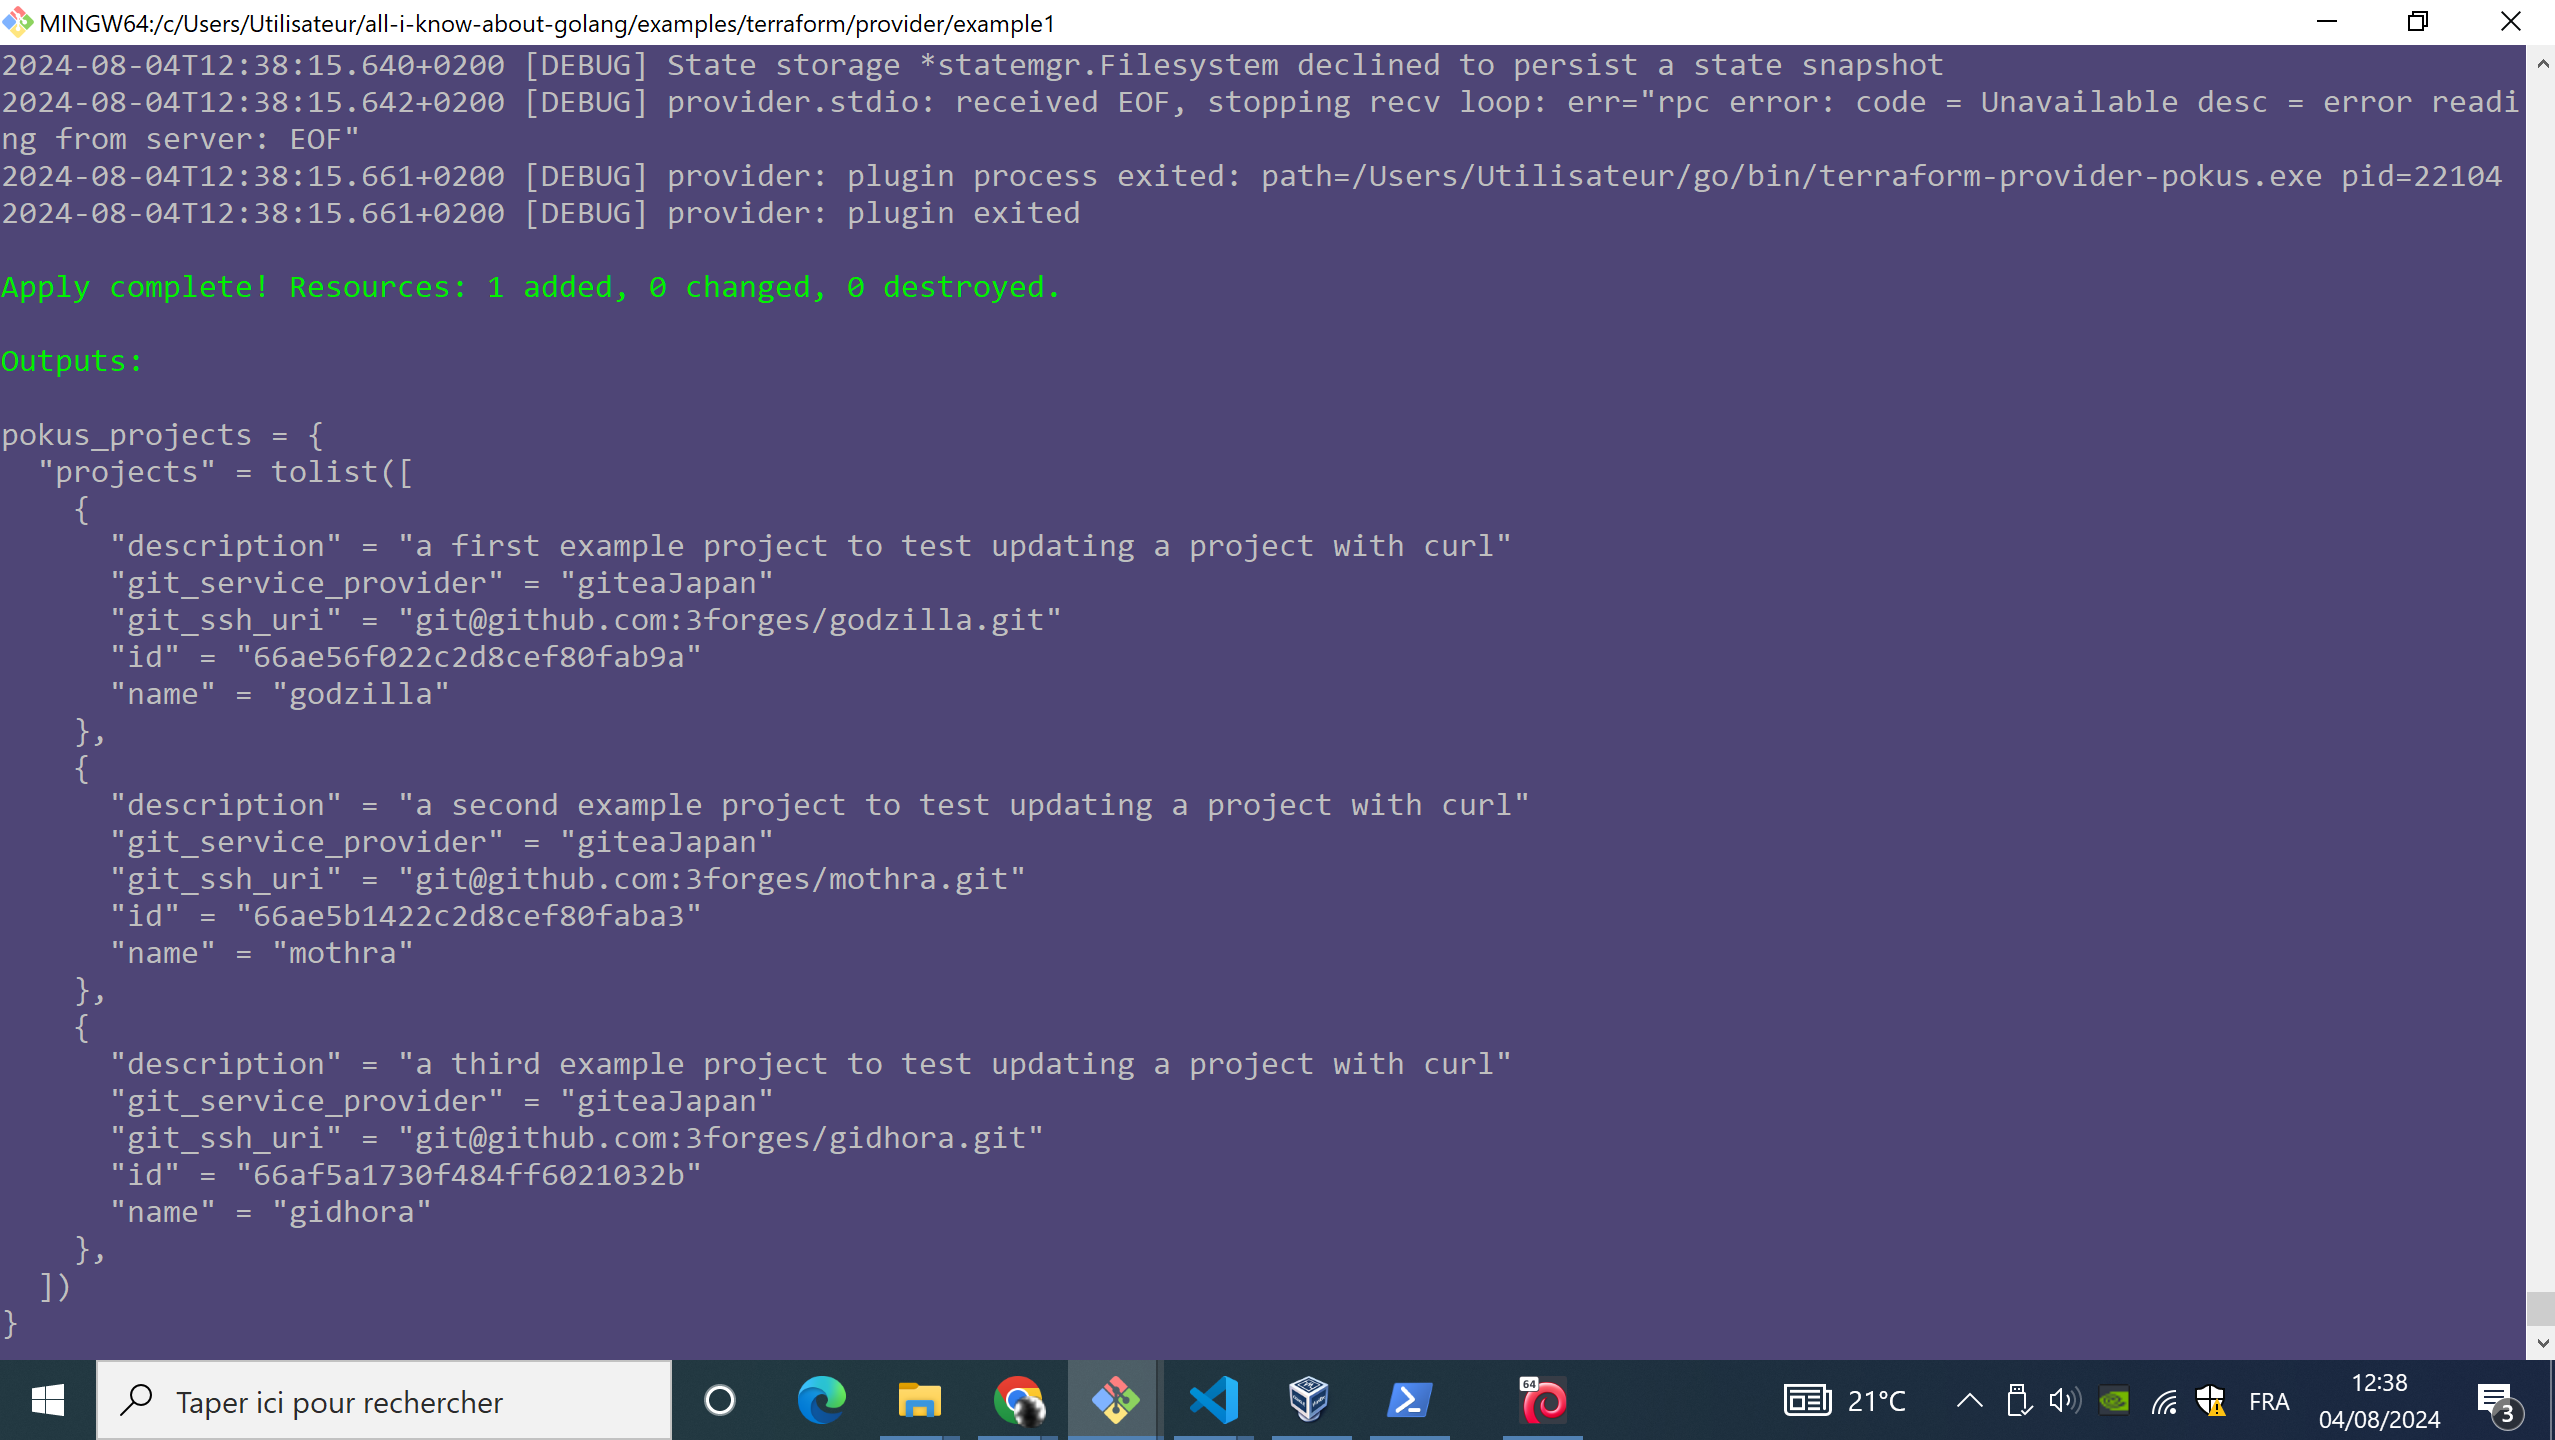
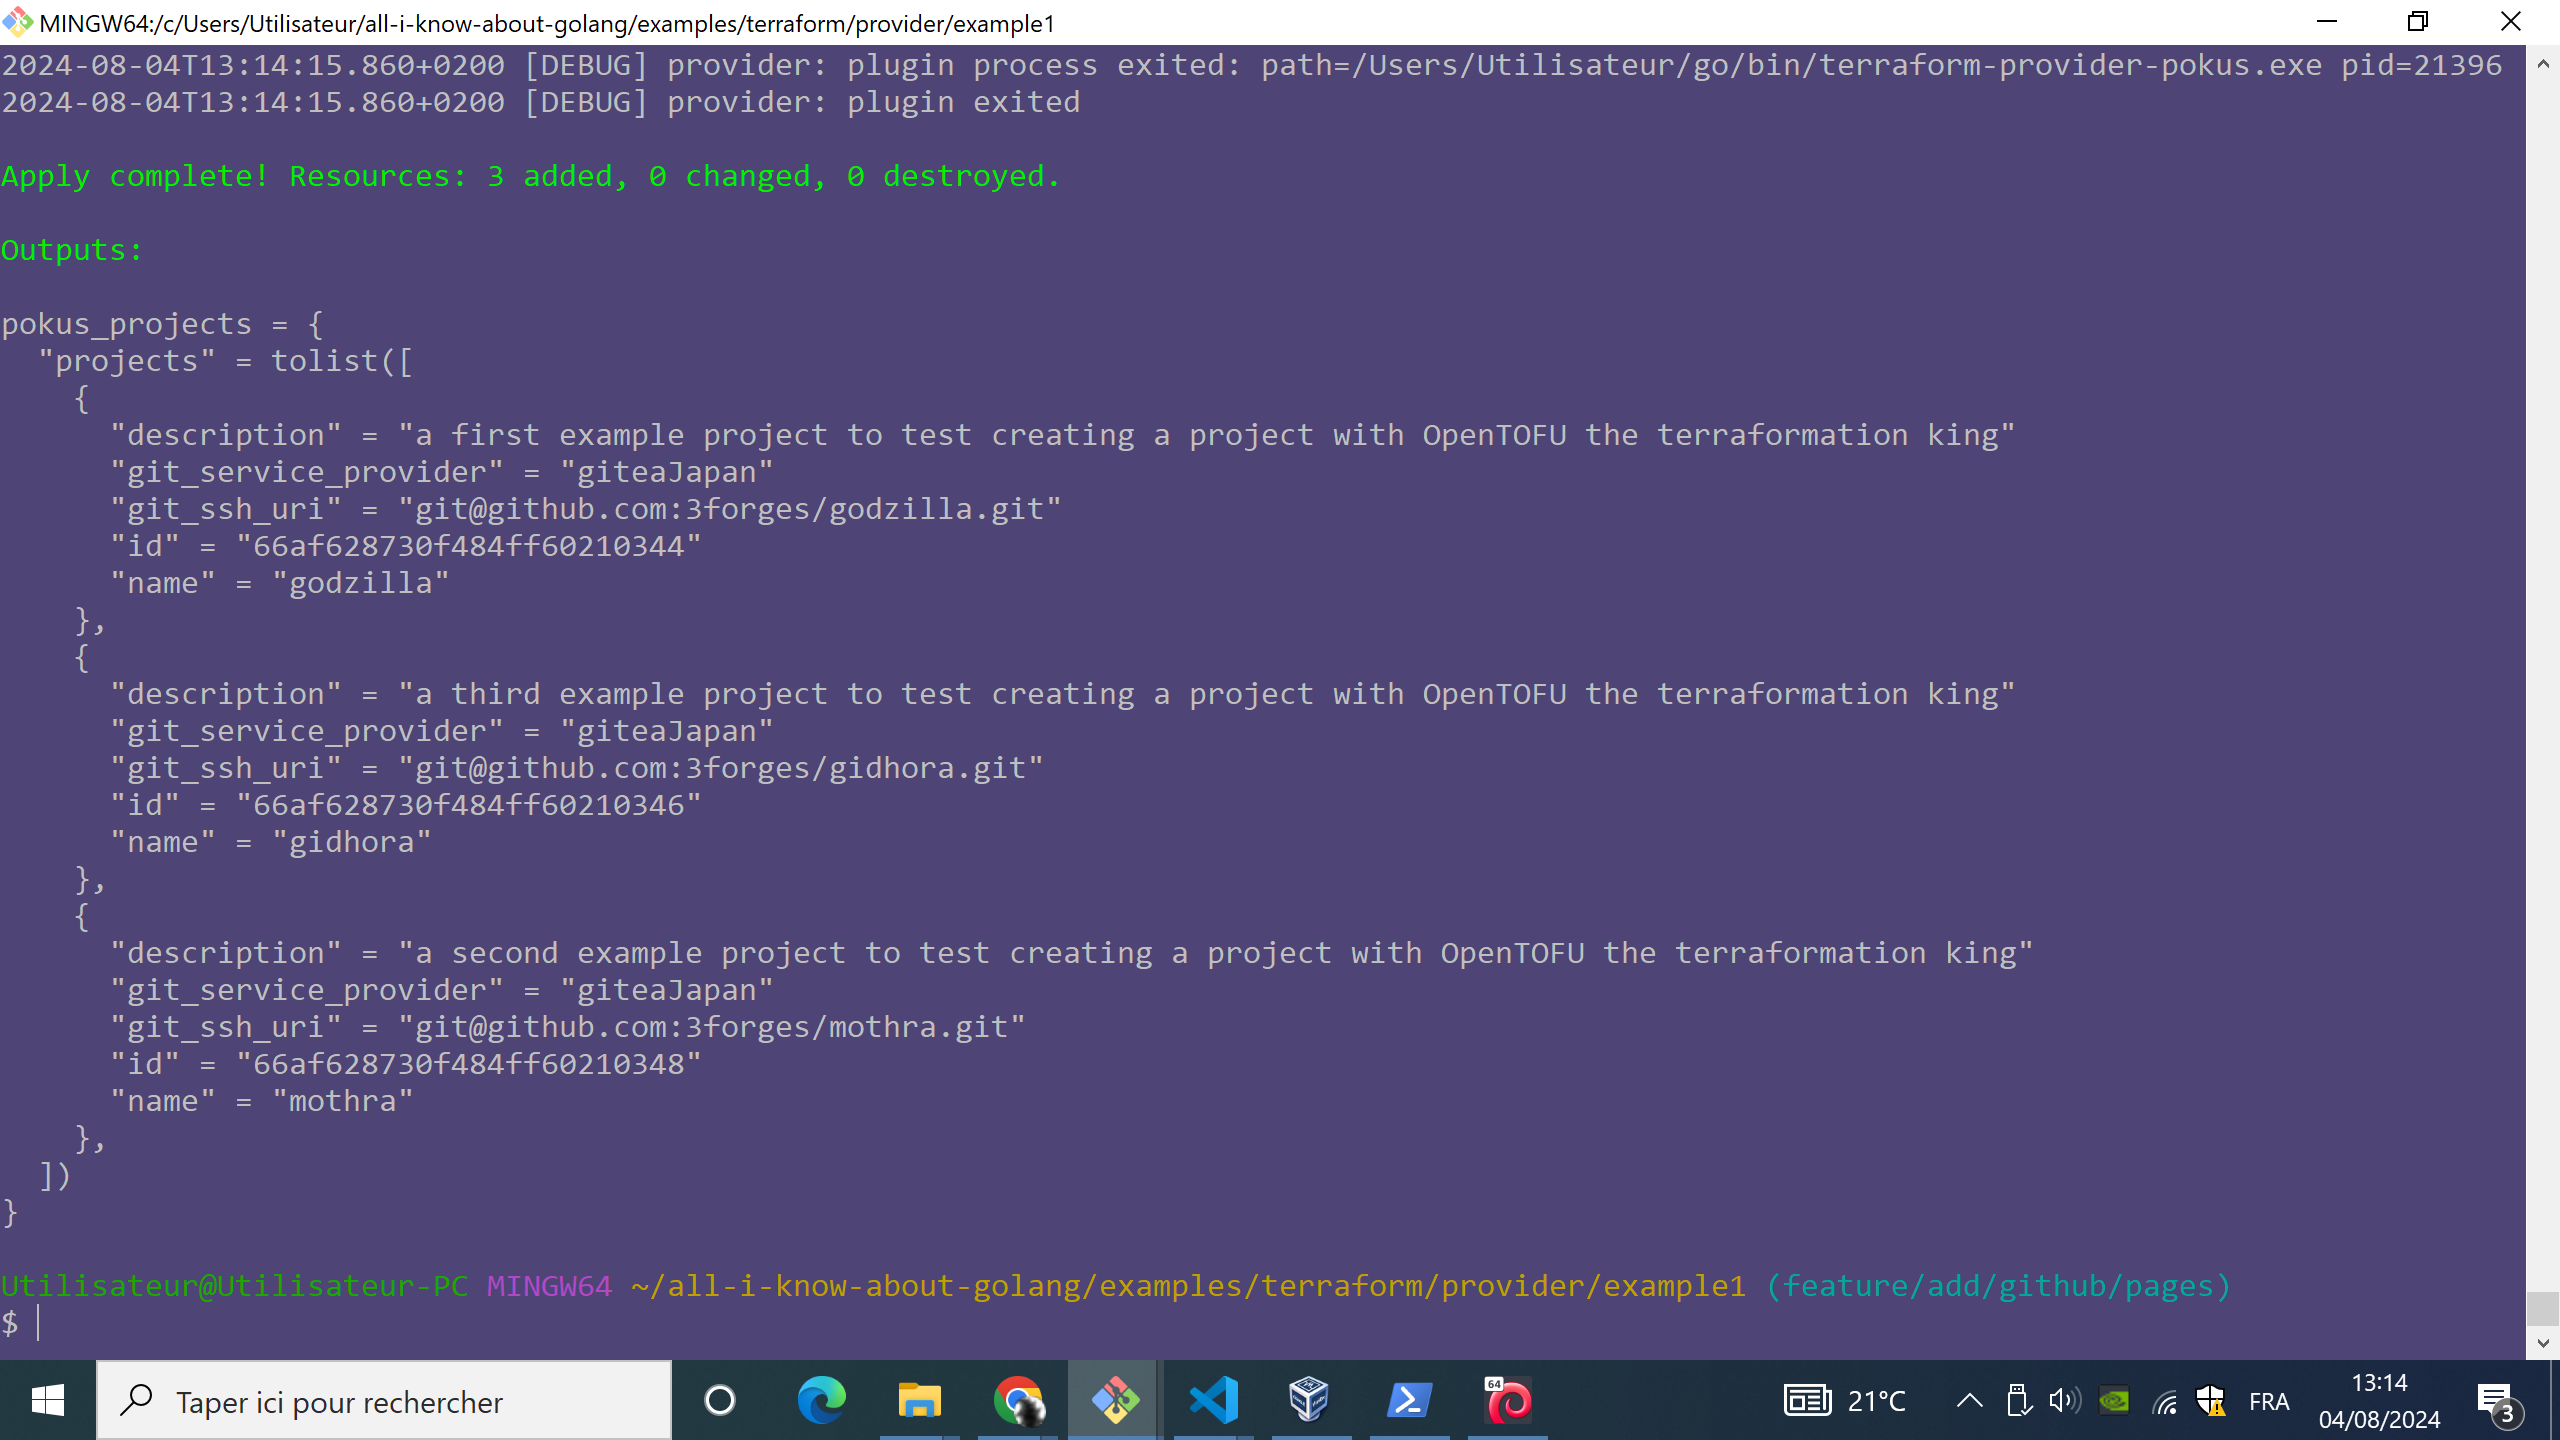
docs: terraform creating a pesto project resource NOW PERFECTLY WORKSSSSSS

diff --git a/website/src/content/go-terraform-tofu/chapter1.md b/website/src/content/go-terraform-tofu/chapter1.md
@@ -833,3 +833,45 @@ Finally, Here is the beautiful result I got, as all was fixed:
 ![awesome terraformed pesto project WOOOwWWW](./images/terraforming_a_pesto_project_works_awesomeeeee.PNG)
 
 Its' so beautiful.
+
+
+Worth noting: In my tofu terraofrmation code, I created a dependency between the `pokus_projects` **datasource**, and the 3 `pokus_project` **resources**, to make sure that the datasource is fetched from REST API only after the resources are created in the rest api:
+
+* In `main.tf`:
+
+```Tf
+resource "pokus_project" "godzilla_project" {
+  name                 = "godzilla"
+  description          = "a first example project to test creating a project with OpenTOFU the terraformation king"
+  git_service_provider = "giteaJapan"
+  git_ssh_uri          = "git@github.com:3forges/godzilla.git"
+}
+
+resource "pokus_project" "mothra_project" {
+  name                 = "mothra"
+  description          = "a second example project to test creating a project with OpenTOFU the terraformation king"
+  git_service_provider = "giteaJapan"
+  git_ssh_uri          = "git@github.com:3forges/mothra.git"
+
+}
+
+resource "pokus_project" "gidhora_project" {
+  name                 = "gidhora"
+  description          = "a third example project to test creating a project with OpenTOFU the terraformation king"
+  git_service_provider = "giteaJapan"
+  git_ssh_uri          = "git@github.com:3forges/gidhora.git"
+}
+```
+
+* In `datasource.tf`:
+
+```Tf
+data "pokus_projects" "example2" {
+  depends_on = [
+    pokus_project.godzilla_project,
+    pokus_project.mothra_project,
+    pokus_project.gidhora_project,
+  ]
+}
+
+```
